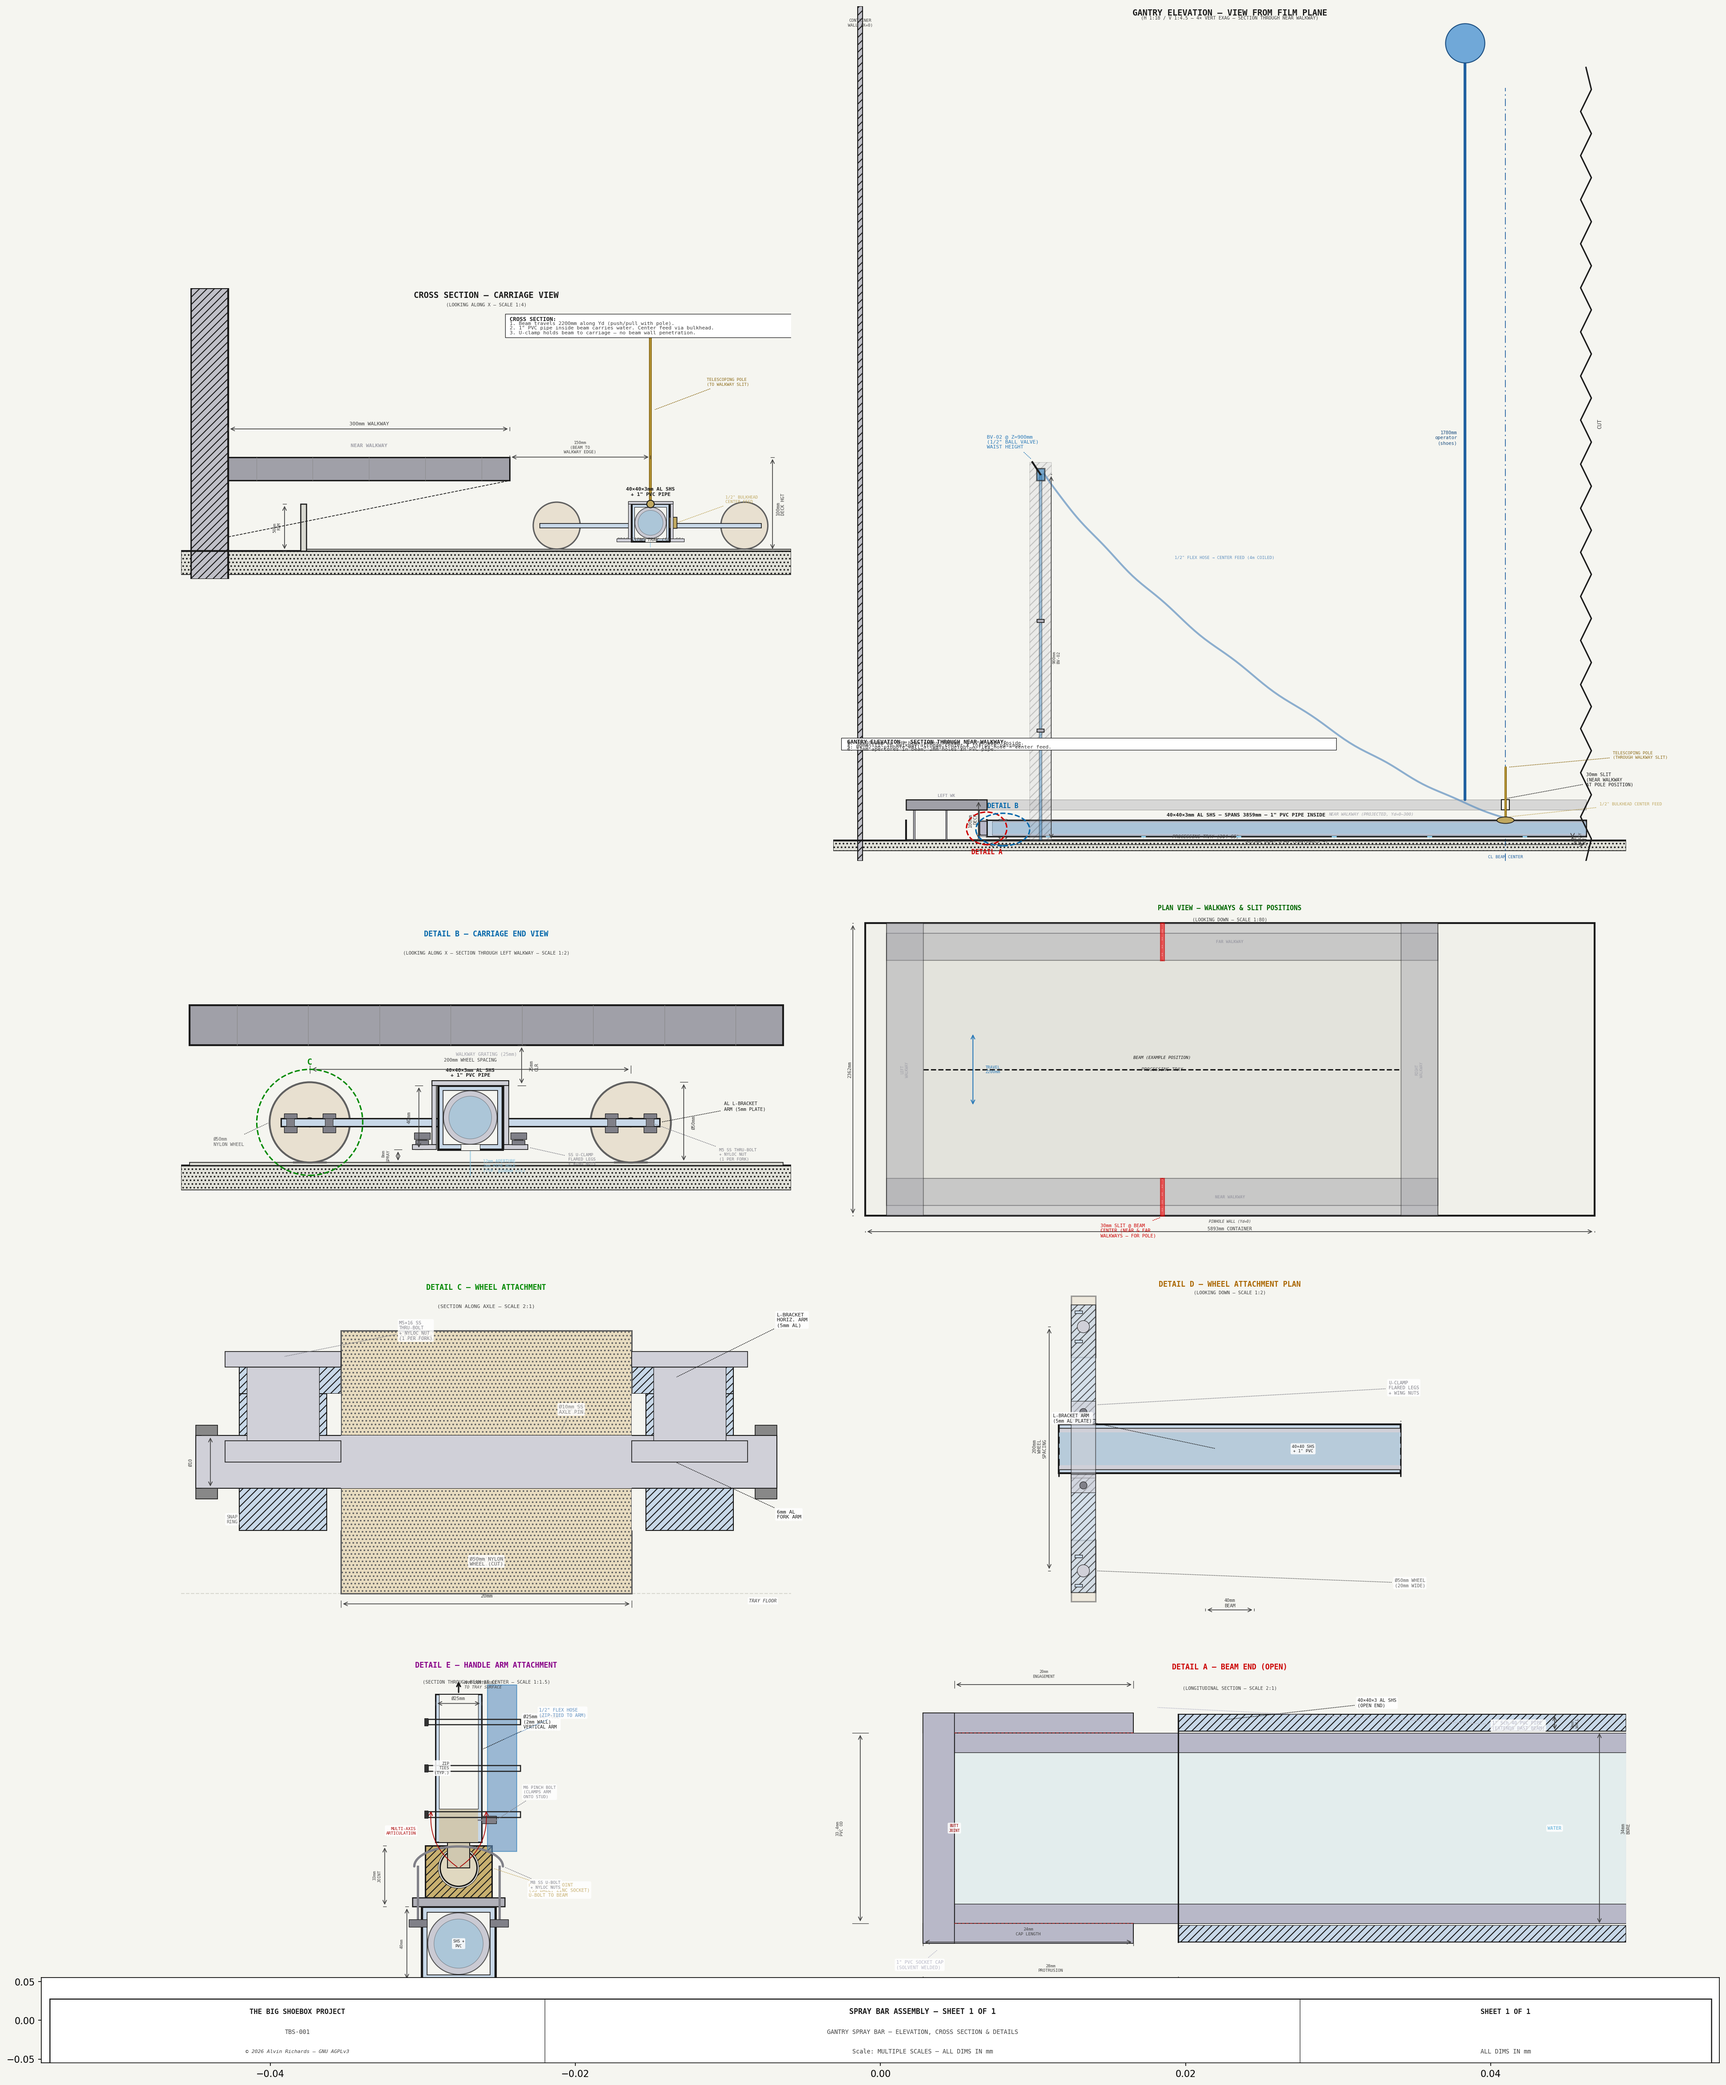
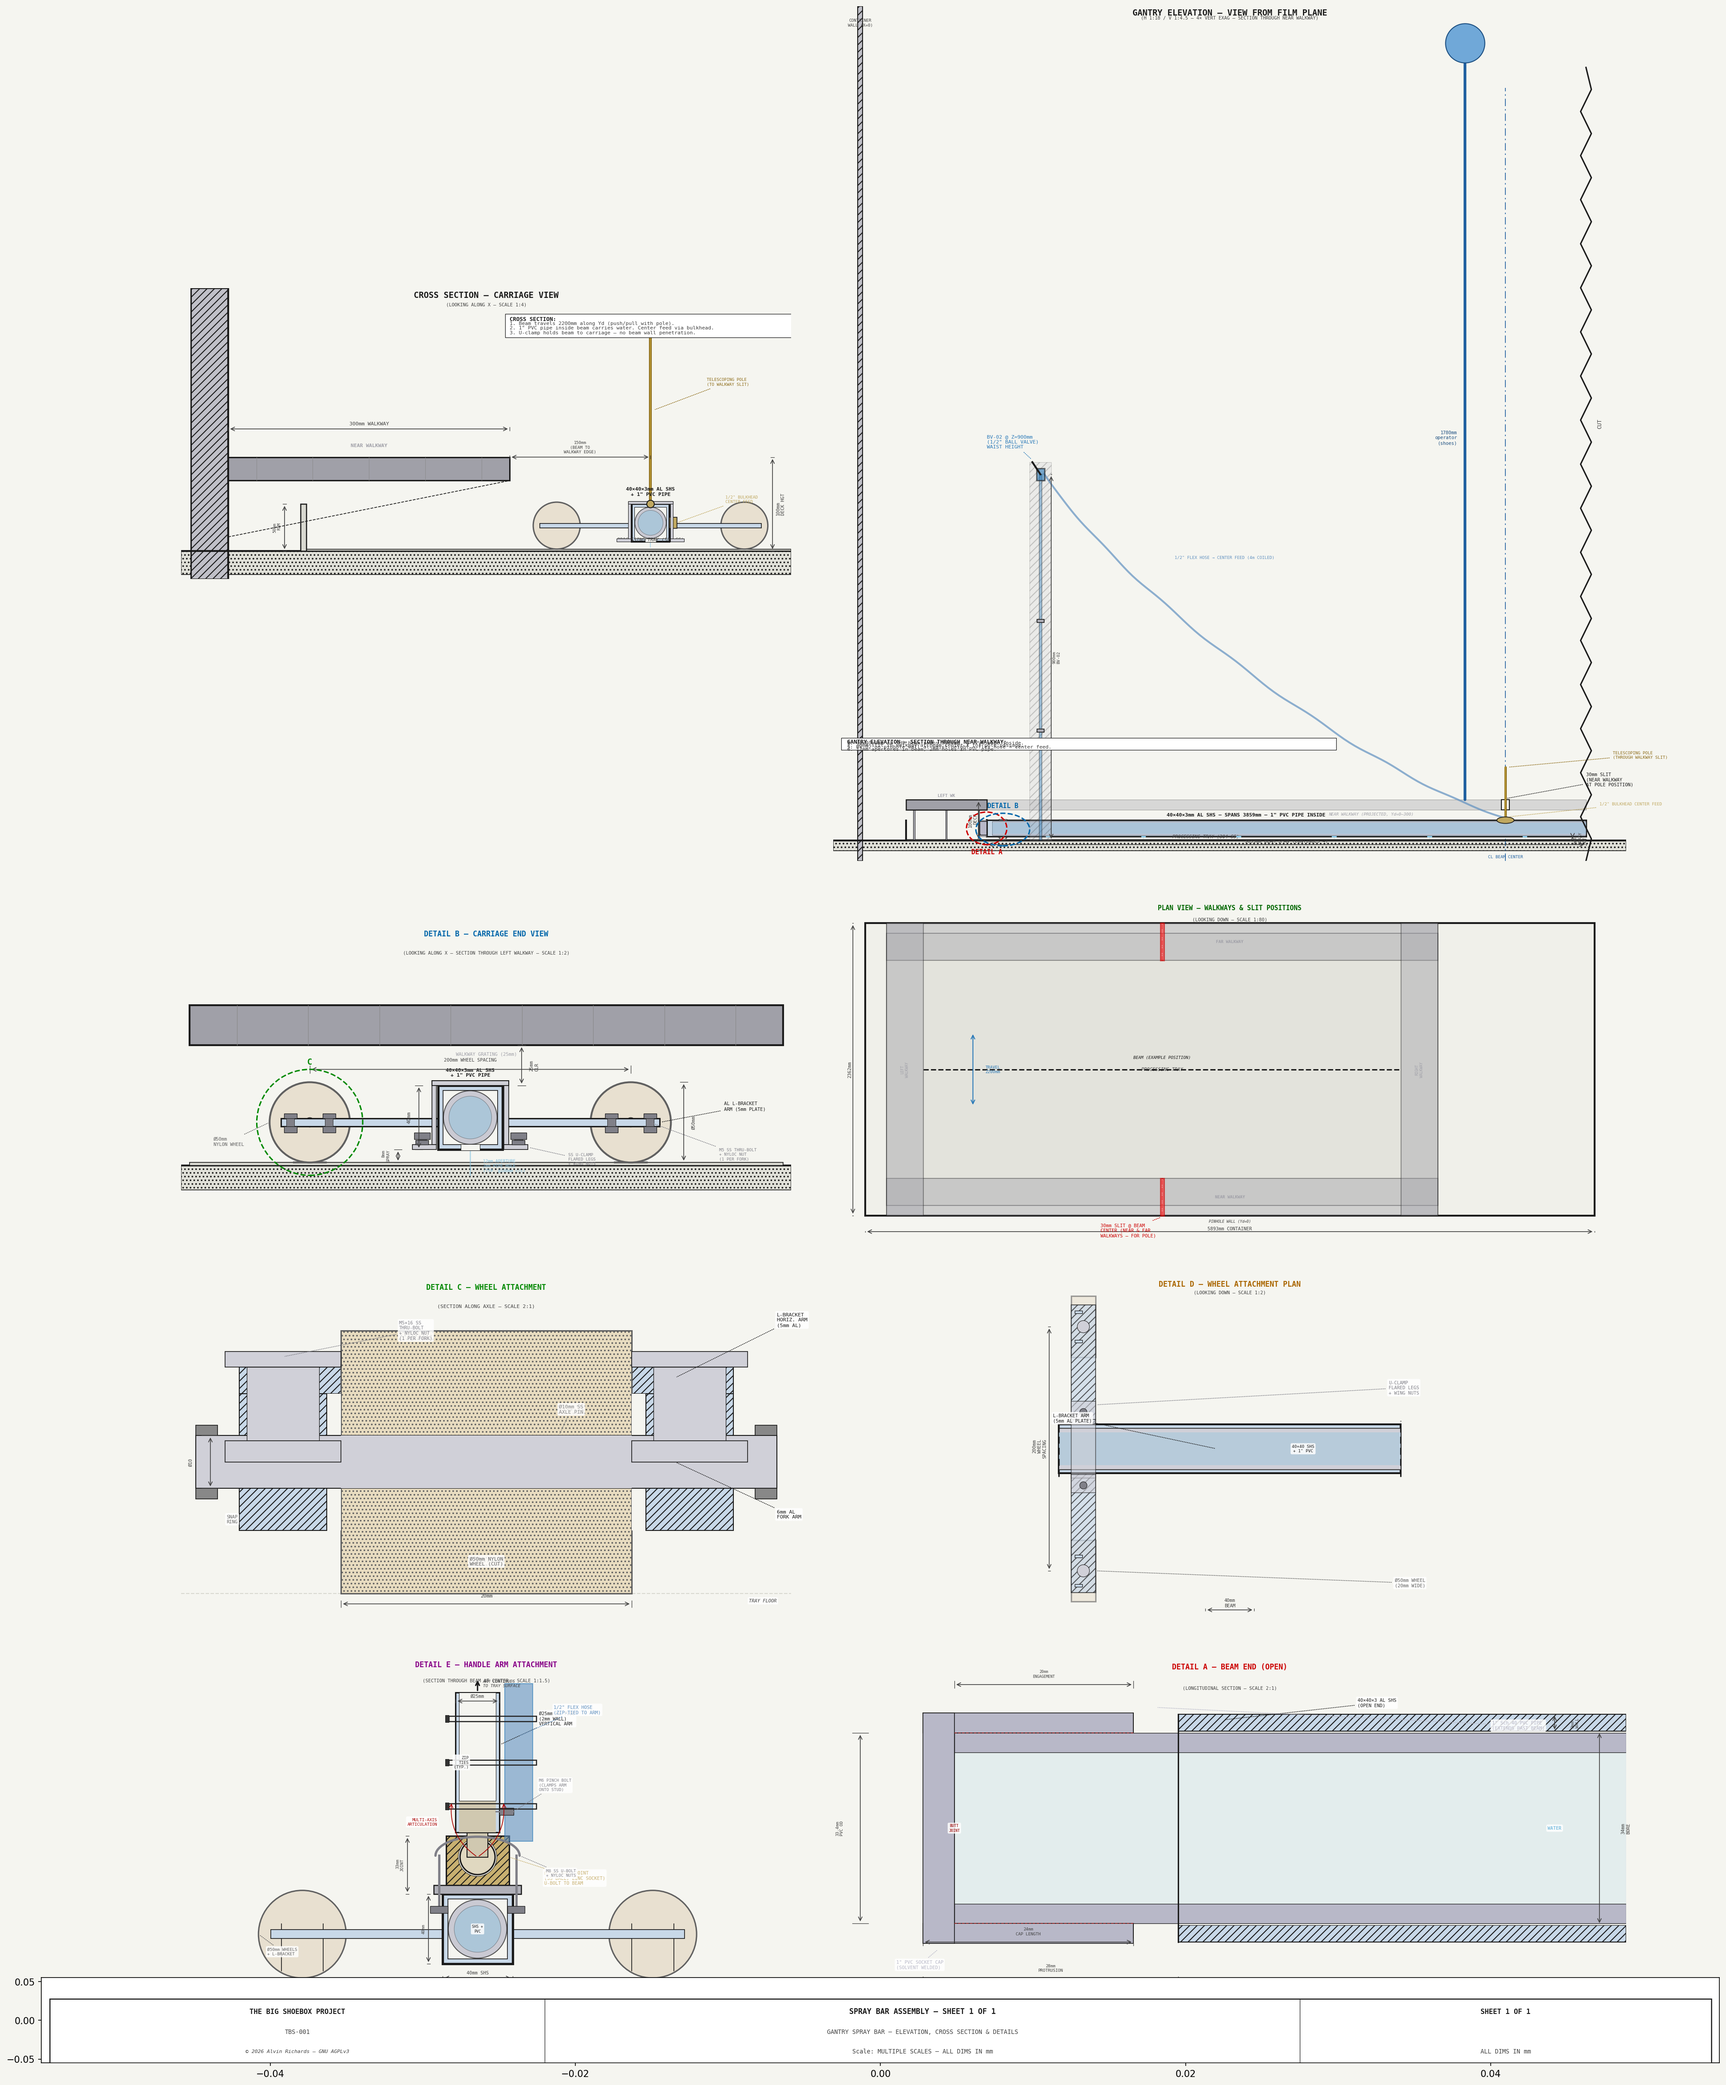
Detail E: add wheels, fork brackets, L-bracket arm, and processing tray floor

Changed region(s): [[0.1556, 0.8083, 0.4046, 0.9638]]

diff --git a/generate_spray_bar_diagram.py b/generate_spray_bar_diagram.py
@@ -1539,9 +1539,9 @@ ax_e.axis("off")
 
 SC_E = 1.5
 
-E_YD_LO = -60
-E_YD_HI = 90
-E_Z_LO = -10
+E_YD_LO = -130
+E_YD_HI = 140
+E_Z_LO = -20
 E_Z_HI = 175
 
 ax_e.set_xlim(E_YD_LO / SC_E, E_YD_HI / SC_E)
@@ -1594,6 +1594,53 @@ ax_e.text(ey(e_beam_ctr), ez(e_beam_bot + BEAM_W / 2),
           "SHS +\nPVC",
           ha="center", va="center", fontsize=4, color=C_FRAME,
           bbox=_bbox_e, **FONT, zorder=15)
+
+# ── Processing tray floor and wheels ─────────────────────────────────
+# Map real Z to Detail E Z: offset by BEAM_Z_BOT (beam bottom = 0 here)
+tray_z_e = TRAY_FLOOR_Z - BEAM_Z_BOT              # = 2 - 10 = -8
+axle_z_e = WHEEL_AXLE_Z - BEAM_Z_BOT              # = 27 - 10 = 17
+
+# Tray floor
+ax_e.plot([ey(E_YD_LO + 5), ey(E_YD_HI - 5)], [ez(tray_z_e), ez(tray_z_e)],
+          color=C_OUT, lw=1.5, zorder=2)
+ax_e.add_patch(Rectangle((ey(E_YD_LO + 5), ez(tray_z_e - 6)),
+                           (E_YD_HI - E_YD_LO - 10) / SC_E, 6 / SC_E,
+                           fc=C_TRAY, ec=C_OUT, lw=0.5, hatch="...", zorder=1))
+ax_e.text(ey(E_YD_HI - 10), ez(tray_z_e - 2),
+          "TRAY FLOOR", ha="right", va="top",
+          fontsize=4, color=C_DIM, style="italic", bbox=_bbox_e, **FONT, zorder=15)
+
+# Wheels (2× at ±WHEEL_SPACING_YD/2 from beam center)
+for w_sign in [-1, 1]:
+    w_yd = w_sign * WHEEL_SPACING_YD / 2
+    ax_e.add_patch(Circle((ey(w_yd), ez(axle_z_e)),
+                             WHEEL_DIA / 2 / SC_E,
+                             fc=C_NYLON, ec=C_WHEEL, lw=1.5, zorder=3))
+    ax_e.add_patch(Circle((ey(w_yd), ez(axle_z_e)),
+                             2 / SC_E, fc=C_WHEEL, ec=C_OUT, lw=0.5, zorder=3.5))
+    # Fork brackets (thin vertical lines straddling wheel)
+    for off in [-WHEEL_WIDTH / 2 - 2, WHEEL_WIDTH / 2 + 2]:
+        fork_top_e = axle_z_e + 6
+        fork_bot_e = axle_z_e - WHEEL_DIA / 2 + 4
+        ax_e.plot([ey(w_yd + off), ey(w_yd + off)],
+                  [ez(fork_top_e), ez(fork_bot_e)],
+                  color=C_FRAME, lw=0.8, zorder=3.5)
+    # Axle pin
+    ax_e.plot([ey(w_yd - WHEEL_WIDTH / 2 - 4), ey(w_yd + WHEEL_WIDTH / 2 + 4)],
+              [ez(axle_z_e), ez(axle_z_e)],
+              color=C_FRAME, lw=0.5, zorder=3.5)
+
+# L-bracket arm spanning both wheels
+brk_half_e = WHEEL_SPACING_YD / 2 + 18
+brk_t_e = 5
+ax_e.add_patch(Rectangle((ey(-brk_half_e), ez(axle_z_e - brk_t_e / 2)),
+                           (2 * brk_half_e) / SC_E, brk_t_e / SC_E,
+                           fc=C_ALUM_FILL, ec=C_FRAME, lw=0.8, zorder=4))
+
+leader(ax_e, ey(-WHEEL_SPACING_YD / 2 - WHEEL_DIA / 2), ez(axle_z_e),
+       ey(E_YD_LO + 10), ez(axle_z_e - 10),
+       f"Ø{WHEEL_DIA}mm WHEELS\n+ L-BRACKET",
+       fs=4.5, color=C_WHEEL, font=FONT, zorder=20, bbox=_bbox_e)
 
 # ── Ball joint on beam top face ───────────────────────────────────────
 BALL_DIA = 20       # ball diameter (mm)
